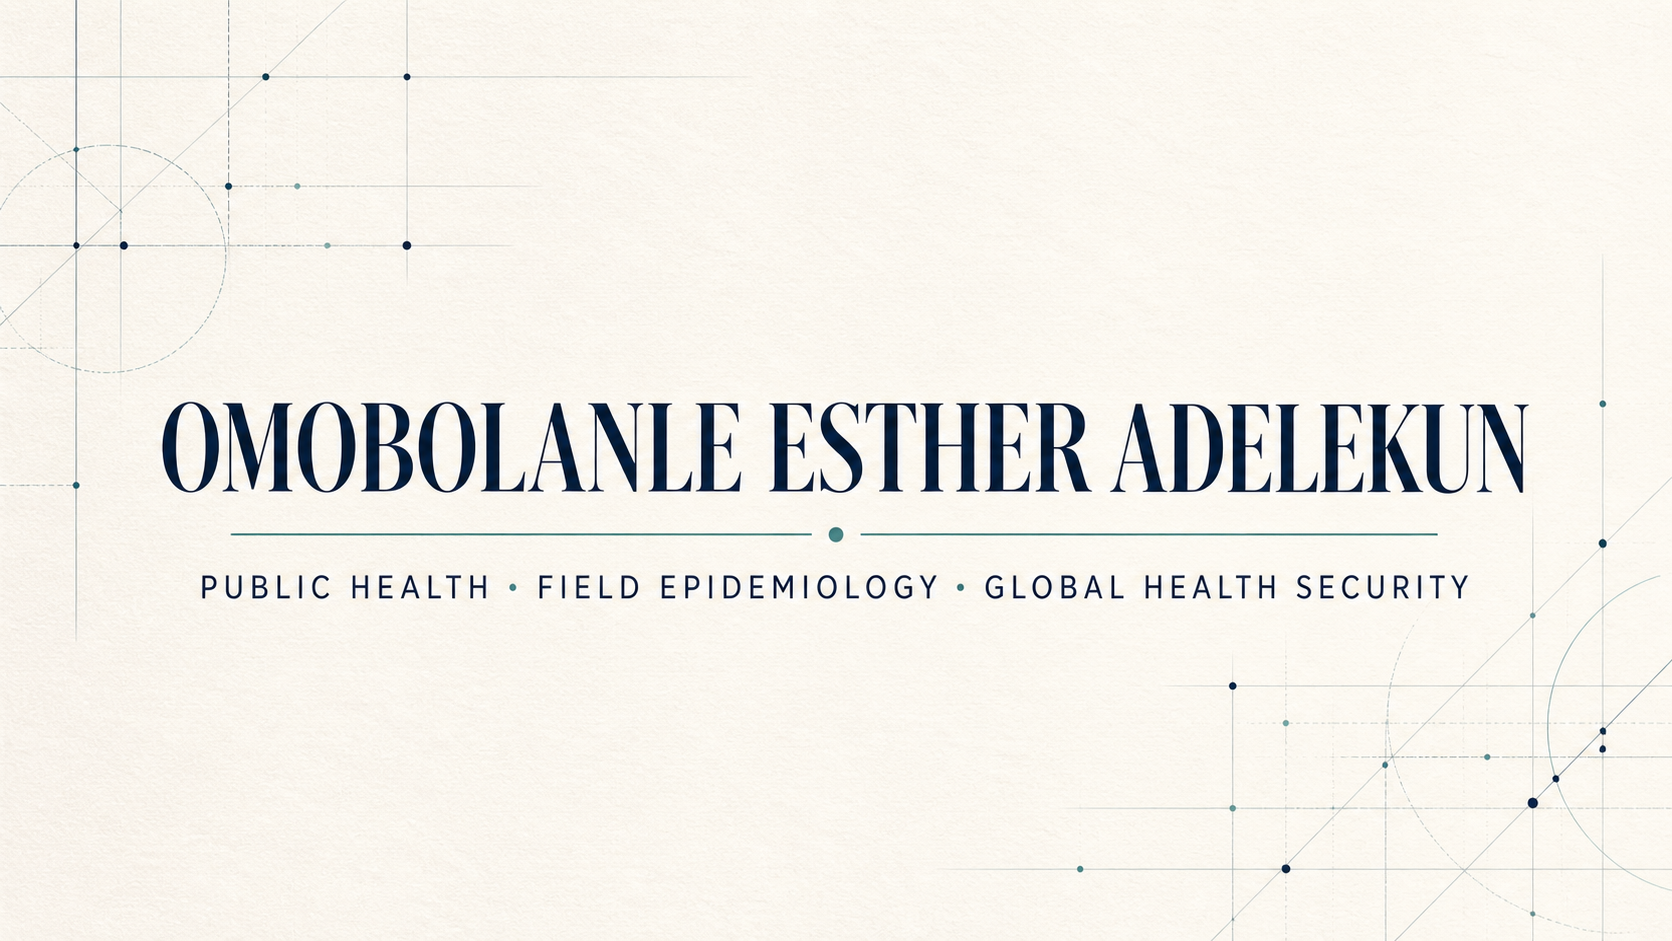
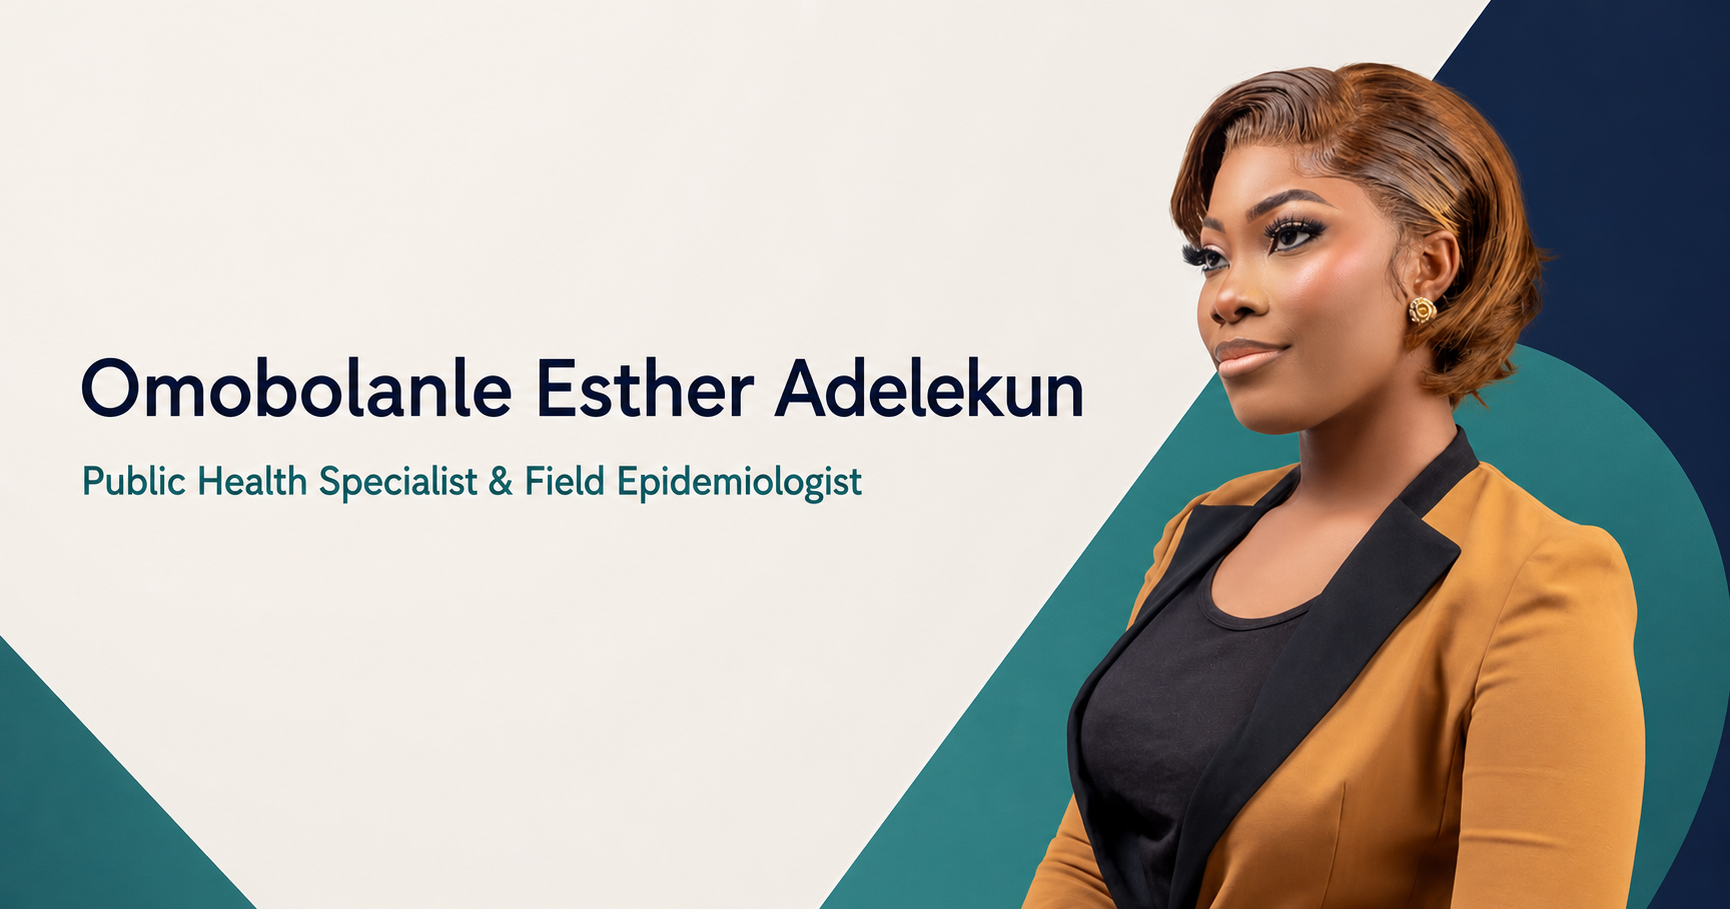
feat: improve social sharing preview

diff --git a/app/layout.tsx b/app/layout.tsx
@@ -5,13 +5,17 @@ import './globals.css';
 const serif = Cormorant_Garamond({ variable: '--font-serif', subsets: ['latin'], weight: ['500','600','700'] });
 const sans = Inter({ variable: '--font-sans', subsets: ['latin'] });
 
+const productionUrl = 'https://omobolanle-portfolio-jade.vercel.app';
+const socialTitle = 'Omobolanle Esther Adelekun | Public Health & Field Epidemiology';
+const socialDescription = 'Field epidemiologist and public health specialist with 7+ years of experience across disease surveillance, outbreak response, immunization and health systems in Nigeria.';
+
 export const metadata: Metadata = {
-  metadataBase: new URL('https://omobolanleadelekun.com'),
-  title: 'Omobolanle Esther Adelekun | Public Health & Field Epidemiology',
-  description: 'Public health and field epidemiology specialist with experience across disease surveillance, immunization, outbreak response, health systems strengthening, and public health data in Nigeria.',
-  alternates: { canonical: '/' },
-  openGraph: { title: 'Omobolanle Esther Adelekun | Public Health & Field Epidemiology', description: 'Field epidemiology, disease surveillance, immunization, outbreak response and public health data.', type: 'website', url: '/', images: [{ url: '/og.png', width: 1672, height: 941, alt: 'Omobolanle Esther Adelekun — Public Health, Field Epidemiology and Global Health Security' }] },
-  twitter: { card: 'summary_large_image', title: 'Omobolanle Esther Adelekun | Public Health & Field Epidemiology', description: 'Field epidemiology, disease surveillance, immunization, outbreak response and public health data.', images: ['/og.png'] },
+  metadataBase: new URL(productionUrl),
+  title: socialTitle,
+  description: socialDescription,
+  alternates: { canonical: productionUrl },
+  openGraph: { title: socialTitle, description: socialDescription, type: 'website', url: productionUrl, images: [{ url: '/og.png', width: 1730, height: 909, alt: 'Omobolanle Esther Adelekun, Public Health Specialist and Field Epidemiologist' }] },
+  twitter: { card: 'summary_large_image', title: socialTitle, description: socialDescription, images: ['/og.png'] },
 };
 
 export default function RootLayout({ children }: Readonly<{ children: React.ReactNode }>) {
